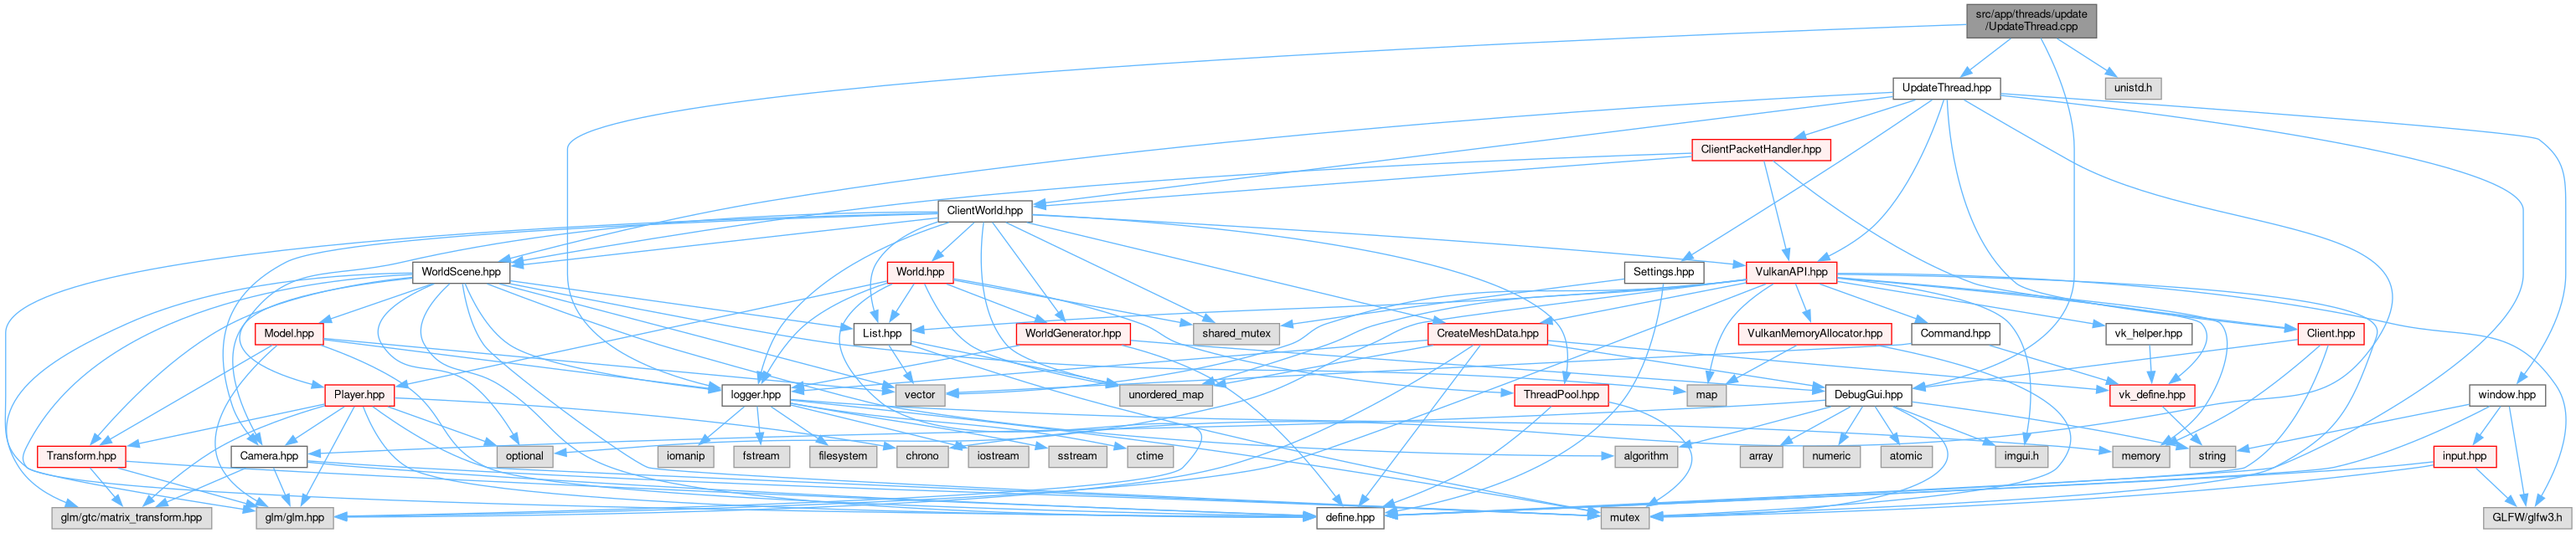
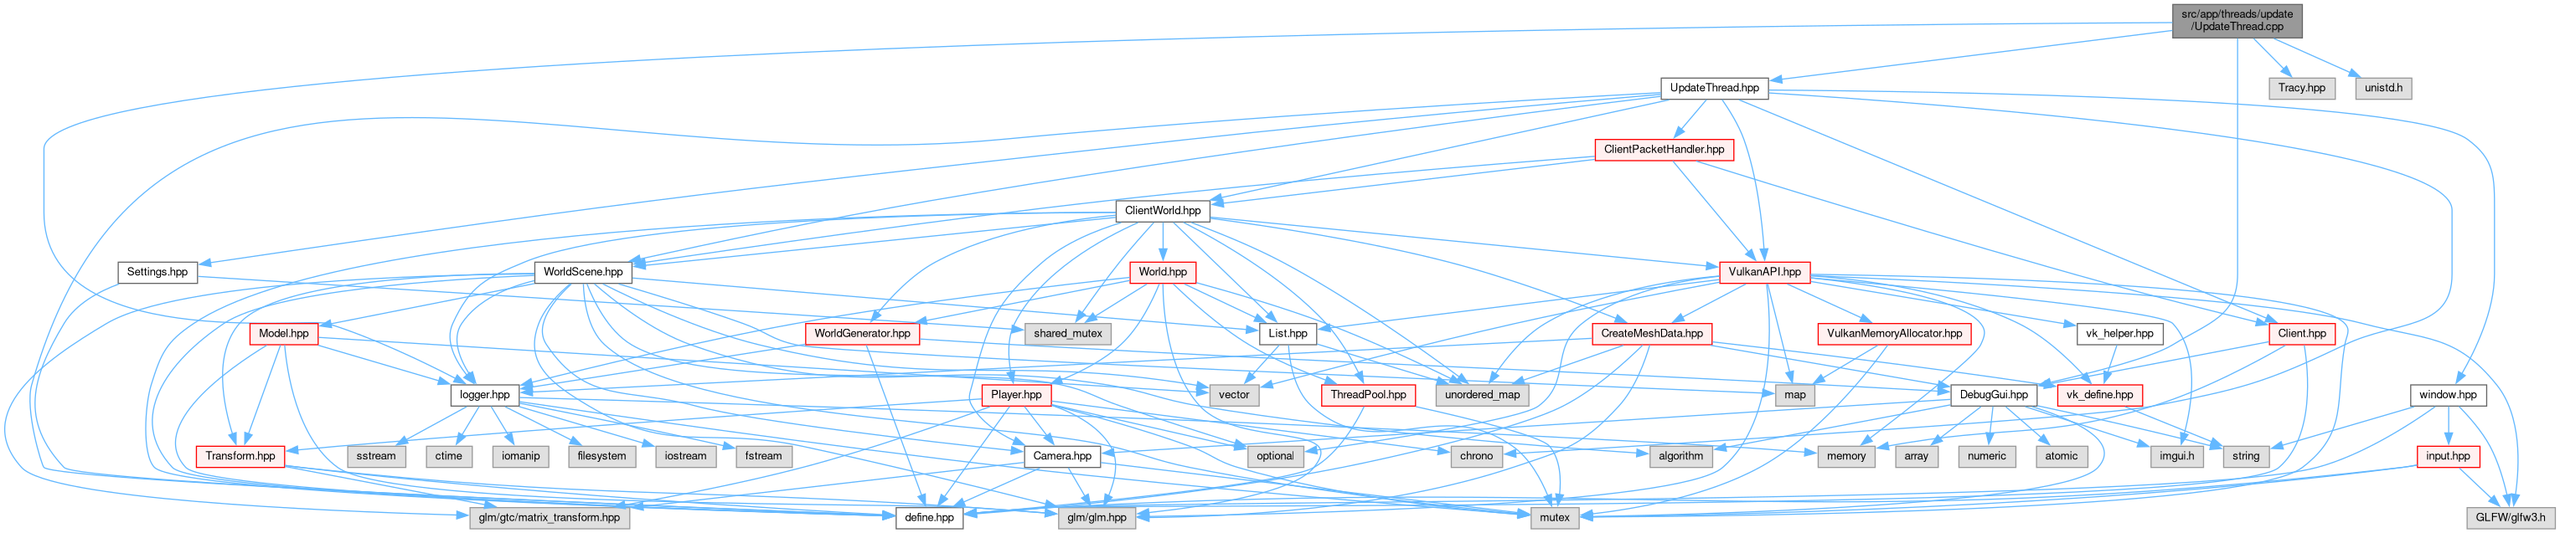
deploy: cb4f21f34c8a662c7d7107bd723b1da73aa176ca

diff --git a/ChunkRequestPacket_8hpp_source.html b/ChunkRequestPacket_8hpp_source.html
@@ -143,17 +143,17 @@ $(document).ready(function(){initNavTree('ChunkRequestPacket_8hpp_source.html','
 <div class="line"><a id="l00033" name="l00033"></a><span class="lineno">   33</span>};</div>
 <div class="ttc" id="aIPacket_8hpp_html"><div class="ttname"><a href="IPacket_8hpp.html">IPacket.hpp</a></div></div>
 <div class="ttc" id="aclassChunkRequestPacket_html"><div class="ttname"><a href="classChunkRequestPacket.html">ChunkRequestPacket</a></div><div class="ttdef"><b>Definition:</b> ChunkRequestPacket.hpp:7</div></div>
-<div class="ttc" id="aclassChunkRequestPacket_html_a120caabc738afbe61991e1946c3cdee8"><div class="ttname"><a href="classChunkRequestPacket.html#a120caabc738afbe61991e1946c3cdee8">ChunkRequestPacket::HasDynamicSize</a></div><div class="ttdeci">bool HasDynamicSize() const override</div><div class="ttdoc">Tell if the packet has a dynamic size.</div><div class="ttdef"><b>Definition:</b> ChunkRequestPacket.cpp:54</div></div>
+<div class="ttc" id="aclassChunkRequestPacket_html_a120caabc738afbe61991e1946c3cdee8"><div class="ttname"><a href="classChunkRequestPacket.html#a120caabc738afbe61991e1946c3cdee8">ChunkRequestPacket::HasDynamicSize</a></div><div class="ttdeci">bool HasDynamicSize() const override</div><div class="ttdoc">Tell if the packet has a dynamic size.</div><div class="ttdef"><b>Definition:</b> ChunkRequestPacket.cpp:55</div></div>
 <div class="ttc" id="aclassChunkRequestPacket_html_a35b094d1a0c8df0ba61373d558420d71"><div class="ttname"><a href="classChunkRequestPacket.html#a35b094d1a0c8df0ba61373d558420d71">ChunkRequestPacket::ChunkRequestPacket</a></div><div class="ttdeci">ChunkRequestPacket()</div><div class="ttdef"><b>Definition:</b> ChunkRequestPacket.cpp:3</div></div>
-<div class="ttc" id="aclassChunkRequestPacket_html_a71b493c33e34ca0eb1b031487b59cf33"><div class="ttname"><a href="classChunkRequestPacket.html#a71b493c33e34ca0eb1b031487b59cf33">ChunkRequestPacket::Clone</a></div><div class="ttdeci">std::shared_ptr&lt; IPacket &gt; Clone() const override</div><div class="ttdoc">Create a new instance of the packet.</div><div class="ttdef"><b>Definition:</b> ChunkRequestPacket.cpp:64</div></div>
-<div class="ttc" id="aclassChunkRequestPacket_html_a834b9ef6731c0310c60ccb901c27fd85"><div class="ttname"><a href="classChunkRequestPacket.html#a834b9ef6731c0310c60ccb901c27fd85">ChunkRequestPacket::operator=</a></div><div class="ttdeci">ChunkRequestPacket &amp; operator=(ChunkRequestPacket &amp;other)</div><div class="ttdef"><b>Definition:</b> ChunkRequestPacket.cpp:16</div></div>
-<div class="ttc" id="aclassChunkRequestPacket_html_a9f2bc12e14b242adb4b3dfa8a04b5b7f"><div class="ttname"><a href="classChunkRequestPacket.html#a9f2bc12e14b242adb4b3dfa8a04b5b7f">ChunkRequestPacket::GetChunkPos</a></div><div class="ttdeci">glm::ivec3 GetChunkPos() const</div><div class="ttdef"><b>Definition:</b> ChunkRequestPacket.cpp:69</div></div>
-<div class="ttc" id="aclassChunkRequestPacket_html_aa66cf8861e5ff90d6e68d723649b6394"><div class="ttname"><a href="classChunkRequestPacket.html#aa66cf8861e5ff90d6e68d723649b6394">ChunkRequestPacket::Serialize</a></div><div class="ttdeci">void Serialize(uint8_t *buffer) const override</div><div class="ttdoc">will write the packet in the buffer, the buffer must at least be of size Size()</div><div class="ttdef"><b>Definition:</b> ChunkRequestPacket.cpp:33</div></div>
-<div class="ttc" id="aclassChunkRequestPacket_html_aa6b7a11c4a993a746e20c753e90ca42f"><div class="ttname"><a href="classChunkRequestPacket.html#aa6b7a11c4a993a746e20c753e90ca42f">ChunkRequestPacket::GetType</a></div><div class="ttdeci">IPacket::Type GetType() const override</div><div class="ttdoc">Get the Type of the packet.</div><div class="ttdef"><b>Definition:</b> ChunkRequestPacket.cpp:59</div></div>
-<div class="ttc" id="aclassChunkRequestPacket_html_abbf4296b52bb71c7e9df4beef4b28582"><div class="ttname"><a href="classChunkRequestPacket.html#abbf4296b52bb71c7e9df4beef4b28582">ChunkRequestPacket::Size</a></div><div class="ttdeci">uint32_t Size() const override</div><div class="ttdoc">return the size of the packet in bytes</div><div class="ttdef"><b>Definition:</b> ChunkRequestPacket.cpp:49</div></div>
+<div class="ttc" id="aclassChunkRequestPacket_html_a71b493c33e34ca0eb1b031487b59cf33"><div class="ttname"><a href="classChunkRequestPacket.html#a71b493c33e34ca0eb1b031487b59cf33">ChunkRequestPacket::Clone</a></div><div class="ttdeci">std::shared_ptr&lt; IPacket &gt; Clone() const override</div><div class="ttdoc">Create a new instance of the packet.</div><div class="ttdef"><b>Definition:</b> ChunkRequestPacket.cpp:65</div></div>
+<div class="ttc" id="aclassChunkRequestPacket_html_a834b9ef6731c0310c60ccb901c27fd85"><div class="ttname"><a href="classChunkRequestPacket.html#a834b9ef6731c0310c60ccb901c27fd85">ChunkRequestPacket::operator=</a></div><div class="ttdeci">ChunkRequestPacket &amp; operator=(ChunkRequestPacket &amp;other)</div><div class="ttdef"><b>Definition:</b> ChunkRequestPacket.cpp:17</div></div>
+<div class="ttc" id="aclassChunkRequestPacket_html_a9f2bc12e14b242adb4b3dfa8a04b5b7f"><div class="ttname"><a href="classChunkRequestPacket.html#a9f2bc12e14b242adb4b3dfa8a04b5b7f">ChunkRequestPacket::GetChunkPos</a></div><div class="ttdeci">glm::ivec3 GetChunkPos() const</div><div class="ttdef"><b>Definition:</b> ChunkRequestPacket.cpp:70</div></div>
+<div class="ttc" id="aclassChunkRequestPacket_html_aa66cf8861e5ff90d6e68d723649b6394"><div class="ttname"><a href="classChunkRequestPacket.html#aa66cf8861e5ff90d6e68d723649b6394">ChunkRequestPacket::Serialize</a></div><div class="ttdeci">void Serialize(uint8_t *buffer) const override</div><div class="ttdoc">will write the packet in the buffer, the buffer must at least be of size Size()</div><div class="ttdef"><b>Definition:</b> ChunkRequestPacket.cpp:34</div></div>
+<div class="ttc" id="aclassChunkRequestPacket_html_aa6b7a11c4a993a746e20c753e90ca42f"><div class="ttname"><a href="classChunkRequestPacket.html#aa6b7a11c4a993a746e20c753e90ca42f">ChunkRequestPacket::GetType</a></div><div class="ttdeci">IPacket::Type GetType() const override</div><div class="ttdoc">Get the Type of the packet.</div><div class="ttdef"><b>Definition:</b> ChunkRequestPacket.cpp:60</div></div>
+<div class="ttc" id="aclassChunkRequestPacket_html_abbf4296b52bb71c7e9df4beef4b28582"><div class="ttname"><a href="classChunkRequestPacket.html#abbf4296b52bb71c7e9df4beef4b28582">ChunkRequestPacket::Size</a></div><div class="ttdeci">uint32_t Size() const override</div><div class="ttdoc">return the size of the packet in bytes</div><div class="ttdef"><b>Definition:</b> ChunkRequestPacket.cpp:50</div></div>
 <div class="ttc" id="aclassChunkRequestPacket_html_ac0bd3ad87625cc4415afbd3ea4af45de"><div class="ttname"><a href="classChunkRequestPacket.html#ac0bd3ad87625cc4415afbd3ea4af45de">ChunkRequestPacket::~ChunkRequestPacket</a></div><div class="ttdeci">~ChunkRequestPacket()</div><div class="ttdef"><b>Definition:</b> ChunkRequestPacket.cpp:7</div></div>
-<div class="ttc" id="aclassChunkRequestPacket_html_adc12b71671f04f7ba59895fa94c8d689"><div class="ttname"><a href="classChunkRequestPacket.html#adc12b71671f04f7ba59895fa94c8d689">ChunkRequestPacket::Deserialize</a></div><div class="ttdeci">void Deserialize(const uint8_t *buffer) override</div><div class="ttdoc">read the packet from the buffer, the buffer must at least be of size Size()</div><div class="ttdef"><b>Definition:</b> ChunkRequestPacket.cpp:42</div></div>
-<div class="ttc" id="aclassChunkRequestPacket_html_af7fb83c76145fba30b04c963a1302c60"><div class="ttname"><a href="classChunkRequestPacket.html#af7fb83c76145fba30b04c963a1302c60">ChunkRequestPacket::SetChunkPos</a></div><div class="ttdeci">void SetChunkPos(const glm::ivec3 &amp;chunk_pos)</div><div class="ttdef"><b>Definition:</b> ChunkRequestPacket.cpp:74</div></div>
+<div class="ttc" id="aclassChunkRequestPacket_html_adc12b71671f04f7ba59895fa94c8d689"><div class="ttname"><a href="classChunkRequestPacket.html#adc12b71671f04f7ba59895fa94c8d689">ChunkRequestPacket::Deserialize</a></div><div class="ttdeci">void Deserialize(const uint8_t *buffer) override</div><div class="ttdoc">read the packet from the buffer, the buffer must at least be of size Size()</div><div class="ttdef"><b>Definition:</b> ChunkRequestPacket.cpp:43</div></div>
+<div class="ttc" id="aclassChunkRequestPacket_html_af7fb83c76145fba30b04c963a1302c60"><div class="ttname"><a href="classChunkRequestPacket.html#af7fb83c76145fba30b04c963a1302c60">ChunkRequestPacket::SetChunkPos</a></div><div class="ttdeci">void SetChunkPos(const glm::ivec3 &amp;chunk_pos)</div><div class="ttdef"><b>Definition:</b> ChunkRequestPacket.cpp:75</div></div>
 <div class="ttc" id="aclassIPacket_html"><div class="ttname"><a href="classIPacket.html">IPacket</a></div><div class="ttdef"><b>Definition:</b> IPacket.hpp:11</div></div>
 <div class="ttc" id="aclassIPacket_html_a45e74ba6b0b68c66035a48c641a6a569"><div class="ttname"><a href="classIPacket.html#a45e74ba6b0b68c66035a48c641a6a569">IPacket::Type</a></div><div class="ttdeci">Type</div><div class="ttdef"><b>Definition:</b> IPacket.hpp:14</div></div>
 </div><!-- fragment --></div><!-- contents -->

diff --git a/UpdateThread_8cpp.html b/UpdateThread_8cpp.html
@@ -111,62 +111,63 @@ $(document).ready(function(){initNavTree('UpdateThread_8cpp.html',''); initResiz
 <div class="textblock"><code>#include &quot;<a class="el" href="UpdateThread_8hpp_source.html">UpdateThread.hpp</a>&quot;</code><br />
 <code>#include &quot;<a class="el" href="logger_8hpp_source.html">logger.hpp</a>&quot;</code><br />
 <code>#include &quot;<a class="el" href="DebugGui_8hpp_source.html">DebugGui.hpp</a>&quot;</code><br />
+<code>#include &quot;Tracy.hpp&quot;</code><br />
 <code>#include &lt;unistd.h&gt;</code><br />
 </div><div class="textblock"><div class="dynheader">
 Include dependency graph for UpdateThread.cpp:</div>
 <div class="dyncontent">
 <div class="center"><img src="UpdateThread_8cpp__incl.png" border="0" usemap="#asrc_2app_2threads_2update_2UpdateThread_8cpp" alt=""/></div>
 <map name="asrc_2app_2threads_2update_2UpdateThread_8cpp" id="asrc_2app_2threads_2update_2UpdateThread_8cpp">
-<area shape="rect" title=" " alt="" coords="2348,5,2503,45"/>
-<area shape="rect" href="UpdateThread_8hpp.html" title=" " alt="" coords="2260,93,2388,119"/>
-<area shape="rect" href="logger_8hpp.html" title=" " alt="" coords="862,460,943,485"/>
-<area shape="rect" href="DebugGui_8hpp.html" title=" " alt="" coords="2179,460,2282,485"/>
-<area shape="rect" title=" " alt="" coords="2513,93,2580,119"/>
-<area shape="rect" href="define_8hpp.html" title=" " alt="" coords="1572,607,1652,632"/>
-<area shape="rect" href="window_8hpp.html" title=" " alt="" coords="2948,460,3039,485"/>
-<area shape="rect" href="WorldScene_8hpp.html" title=" " alt="" coords="493,313,609,339"/>
-<area shape="rect" href="Settings_8hpp.html" title=" " alt="" coords="1939,313,2034,339"/>
-<area shape="rect" href="ClientWorld_8hpp.html" title=" " alt="" coords="1120,240,1232,265"/>
-<area shape="rect" title=" " alt="" coords="1071,533,1132,559"/>
-<area shape="rect" href="VulkanAPI_8hpp.html" title=" " alt="" coords="2085,313,2193,339"/>
-<area shape="rect" href="Client_8hpp.html" title=" " alt="" coords="2743,387,2822,412"/>
-<area shape="rect" href="ClientPacketHandler_8hpp.html" title=" " alt="" coords="2020,167,2185,192"/>
-<area shape="rect" href="input_8hpp.html" title=" " alt="" coords="2905,533,2980,559"/>
-<area shape="rect" title=" " alt="" coords="2965,607,3070,632"/>
-<area shape="rect" title=" " alt="" coords="2614,533,2669,559"/>
-<area shape="rect" title=" " alt="" coords="1911,607,1969,632"/>
-<area shape="rect" href="Transform_8hpp.html" title=" " alt="" coords="45,533,150,559"/>
-<area shape="rect" title=" " alt="" coords="306,607,398,632"/>
-<area shape="rect" title=" " alt="" coords="62,607,253,632"/>
-<area shape="rect" href="Camera_8hpp.html" title=" " alt="" coords="276,533,367,559"/>
-<area shape="rect" href="List_8hpp.html" title=" " alt="" coords="1019,387,1087,412"/>
-<area shape="rect" title=" " alt="" coords="1069,460,1128,485"/>
-<area shape="rect" href="Model_8hpp.html" title=" " alt="" coords="305,387,386,412"/>
-<area shape="rect" title=" " alt="" coords="593,533,660,559"/>
-<area shape="rect" title=" " alt="" coords="2014,460,2061,485"/>
-<area shape="rect" title=" " alt="" coords="1928,533,2003,559"/>
-<area shape="rect" title=" " alt="" coords="1156,533,1228,559"/>
-<area shape="rect" title=" " alt="" coords="876,533,943,559"/>
-<area shape="rect" title=" " alt="" coords="1252,533,1321,559"/>
-<area shape="rect" title=" " alt="" coords="1346,533,1401,559"/>
-<area shape="rect" title=" " alt="" coords="785,533,852,559"/>
-<area shape="rect" title=" " alt="" coords="967,533,1047,559"/>
-<area shape="rect" title=" " alt="" coords="2522,533,2590,559"/>
-<area shape="rect" title=" " alt="" coords="1337,460,1447,485"/>
-<area shape="rect" title=" " alt="" coords="1425,387,1527,412"/>
-<area shape="rect" href="Player_8hpp.html" title=" " alt="" coords="388,460,471,485"/>
-<area shape="rect" href="WorldGenerator_8hpp.html" title=" " alt="" coords="1213,387,1349,412"/>
-<area shape="rect" href="CreateMeshData_8hpp.html" title=" " alt="" coords="1705,387,1847,412"/>
-<area shape="rect" href="ThreadPool_8hpp.html" title=" " alt="" coords="1808,460,1920,485"/>
-<area shape="rect" href="World_8hpp.html" title=" " alt="" coords="1059,313,1138,339"/>
-<area shape="rect" title=" " alt="" coords="2382,533,2445,559"/>
-<area shape="rect" title=" " alt="" coords="2245,533,2307,559"/>
-<area shape="rect" title=" " alt="" coords="2077,533,2128,559"/>
-<area shape="rect" title=" " alt="" coords="2153,533,2221,559"/>
-<area shape="rect" href="vk__define_8hpp.html" title=" " alt="" coords="2519,460,2620,485"/>
-<area shape="rect" href="vk__helper_8hpp.html" title=" " alt="" coords="2514,387,2617,412"/>
-<area shape="rect" href="VulkanMemoryAllocator_8hpp.html" title=" " alt="" coords="2075,387,2258,412"/>
-<area shape="rect" href="Command_8hpp.html" title=" " alt="" coords="2282,387,2387,412"/>
+<area shape="rect" title=" " alt="" coords="2594,5,2748,45"/>
+<area shape="rect" href="UpdateThread_8hpp.html" title=" " alt="" coords="1983,93,2111,119"/>
+<area shape="rect" href="logger_8hpp.html" title=" " alt="" coords="538,460,620,485"/>
+<area shape="rect" href="DebugGui_8hpp.html" title=" " alt="" coords="2329,460,2432,485"/>
+<area shape="rect" title=" " alt="" coords="2709,93,2788,119"/>
+<area shape="rect" title=" " alt="" coords="2812,93,2879,119"/>
+<area shape="rect" href="define_8hpp.html" title=" " alt="" coords="1070,607,1150,632"/>
+<area shape="rect" href="window_8hpp.html" title=" " alt="" coords="2878,460,2968,485"/>
+<area shape="rect" href="WorldScene_8hpp.html" title=" " alt="" coords="638,313,754,339"/>
+<area shape="rect" href="Settings_8hpp.html" title=" " alt="" coords="141,313,236,339"/>
+<area shape="rect" href="ClientWorld_8hpp.html" title=" " alt="" coords="1332,240,1444,265"/>
+<area shape="rect" title=" " alt="" coords="1732,533,1794,559"/>
+<area shape="rect" href="VulkanAPI_8hpp.html" title=" " alt="" coords="2053,313,2161,339"/>
+<area shape="rect" href="Client_8hpp.html" title=" " alt="" coords="2709,387,2788,412"/>
+<area shape="rect" href="ClientPacketHandler_8hpp.html" title=" " alt="" coords="1904,167,2070,192"/>
+<area shape="rect" href="input_8hpp.html" title=" " alt="" coords="2886,533,2960,559"/>
+<area shape="rect" title=" " alt="" coords="2945,607,3050,632"/>
+<area shape="rect" title=" " alt="" coords="2654,533,2709,559"/>
+<area shape="rect" title=" " alt="" coords="1828,607,1885,632"/>
+<area shape="rect" href="Transform_8hpp.html" title=" " alt="" coords="234,533,340,559"/>
+<area shape="rect" title=" " alt="" coords="1264,607,1356,632"/>
+<area shape="rect" title=" " alt="" coords="561,607,752,632"/>
+<area shape="rect" href="Camera_8hpp.html" title=" " alt="" coords="1223,533,1314,559"/>
+<area shape="rect" href="List_8hpp.html" title=" " alt="" coords="1504,387,1572,412"/>
+<area shape="rect" title=" " alt="" coords="1444,460,1503,485"/>
+<area shape="rect" href="Model_8hpp.html" title=" " alt="" coords="298,387,380,412"/>
+<area shape="rect" title=" " alt="" coords="1490,533,1556,559"/>
+<area shape="rect" title=" " alt="" coords="2120,460,2166,485"/>
+<area shape="rect" title=" " alt="" coords="1970,533,2044,559"/>
+<area shape="rect" title=" " alt="" coords="783,533,855,559"/>
+<area shape="rect" title=" " alt="" coords="879,533,946,559"/>
+<area shape="rect" title=" " alt="" coords="415,533,484,559"/>
+<area shape="rect" title=" " alt="" coords="509,533,564,559"/>
+<area shape="rect" title=" " alt="" coords="588,533,655,559"/>
+<area shape="rect" title=" " alt="" coords="679,533,759,559"/>
+<area shape="rect" title=" " alt="" coords="2170,533,2238,559"/>
+<area shape="rect" title=" " alt="" coords="1714,460,1825,485"/>
+<area shape="rect" title=" " alt="" coords="1224,387,1326,412"/>
+<area shape="rect" href="Player_8hpp.html" title=" " alt="" coords="1172,460,1255,485"/>
+<area shape="rect" href="WorldGenerator_8hpp.html" title=" " alt="" coords="962,387,1098,412"/>
+<area shape="rect" href="CreateMeshData_8hpp.html" title=" " alt="" coords="1901,387,2044,412"/>
+<area shape="rect" href="ThreadPool_8hpp.html" title=" " alt="" coords="1578,460,1690,485"/>
+<area shape="rect" href="World_8hpp.html" title=" " alt="" coords="1349,313,1428,339"/>
+<area shape="rect" title=" " alt="" coords="2568,533,2630,559"/>
+<area shape="rect" title=" " alt="" coords="2431,533,2492,559"/>
+<area shape="rect" title=" " alt="" coords="2263,533,2314,559"/>
+<area shape="rect" title=" " alt="" coords="2338,533,2406,559"/>
+<area shape="rect" href="vk__define_8hpp.html" title=" " alt="" coords="2456,460,2558,485"/>
+<area shape="rect" href="vk__helper_8hpp.html" title=" " alt="" coords="2480,387,2582,412"/>
+<area shape="rect" href="VulkanMemoryAllocator_8hpp.html" title=" " alt="" coords="2170,387,2353,412"/>
 </map>
 </div>
 </div></div><!-- contents -->

diff --git a/UpdateThread_8hpp_source.html b/UpdateThread_8hpp_source.html
@@ -204,7 +204,7 @@ $(document).ready(function(){initNavTree('UpdateThread_8hpp_source.html',''); in
 <div class="ttc" id="aclassUpdateThread_html"><div class="ttname"><a href="classUpdateThread.html">UpdateThread</a></div><div class="ttdef"><b>Definition:</b> UpdateThread.hpp:14</div></div>
 <div class="ttc" id="aclassUpdateThread_html_a5379199617c6f252e5d850755f887b1f"><div class="ttname"><a href="classUpdateThread.html#a5379199617c6f252e5d850755f887b1f">UpdateThread::operator=</a></div><div class="ttdeci">UpdateThread &amp; operator=(UpdateThread &amp;other)=delete</div></div>
 <div class="ttc" id="aclassUpdateThread_html_a67633683c42a680171e9de4cb55e673b"><div class="ttname"><a href="classUpdateThread.html#a67633683c42a680171e9de4cb55e673b">UpdateThread::UpdateThread</a></div><div class="ttdeci">UpdateThread(UpdateThread &amp;&amp;other)=delete</div></div>
-<div class="ttc" id="aclassUpdateThread_html_a6b0329b5ce1c37b523ca25276d180cbb"><div class="ttname"><a href="classUpdateThread.html#a6b0329b5ce1c37b523ca25276d180cbb">UpdateThread::~UpdateThread</a></div><div class="ttdeci">~UpdateThread()</div><div class="ttdef"><b>Definition:</b> UpdateThread.cpp:33</div></div>
+<div class="ttc" id="aclassUpdateThread_html_a6b0329b5ce1c37b523ca25276d180cbb"><div class="ttname"><a href="classUpdateThread.html#a6b0329b5ce1c37b523ca25276d180cbb">UpdateThread::~UpdateThread</a></div><div class="ttdeci">~UpdateThread()</div><div class="ttdef"><b>Definition:</b> UpdateThread.cpp:35</div></div>
 <div class="ttc" id="aclassUpdateThread_html_abb79f362ecbec1a4c878739bafe974de"><div class="ttname"><a href="classUpdateThread.html#abb79f362ecbec1a4c878739bafe974de">UpdateThread::operator=</a></div><div class="ttdeci">UpdateThread &amp; operator=(UpdateThread &amp;&amp;other)=delete</div></div>
 <div class="ttc" id="aclassUpdateThread_html_ac4c818b0e4646770c22f3f095b251517"><div class="ttname"><a href="classUpdateThread.html#ac4c818b0e4646770c22f3f095b251517">UpdateThread::UpdateThread</a></div><div class="ttdeci">UpdateThread(UpdateThread &amp;other)=delete</div></div>
 <div class="ttc" id="aclassVulkanAPI_html"><div class="ttname"><a href="classVulkanAPI.html">VulkanAPI</a></div><div class="ttdef"><b>Definition:</b> VulkanAPI.hpp:191</div></div>
